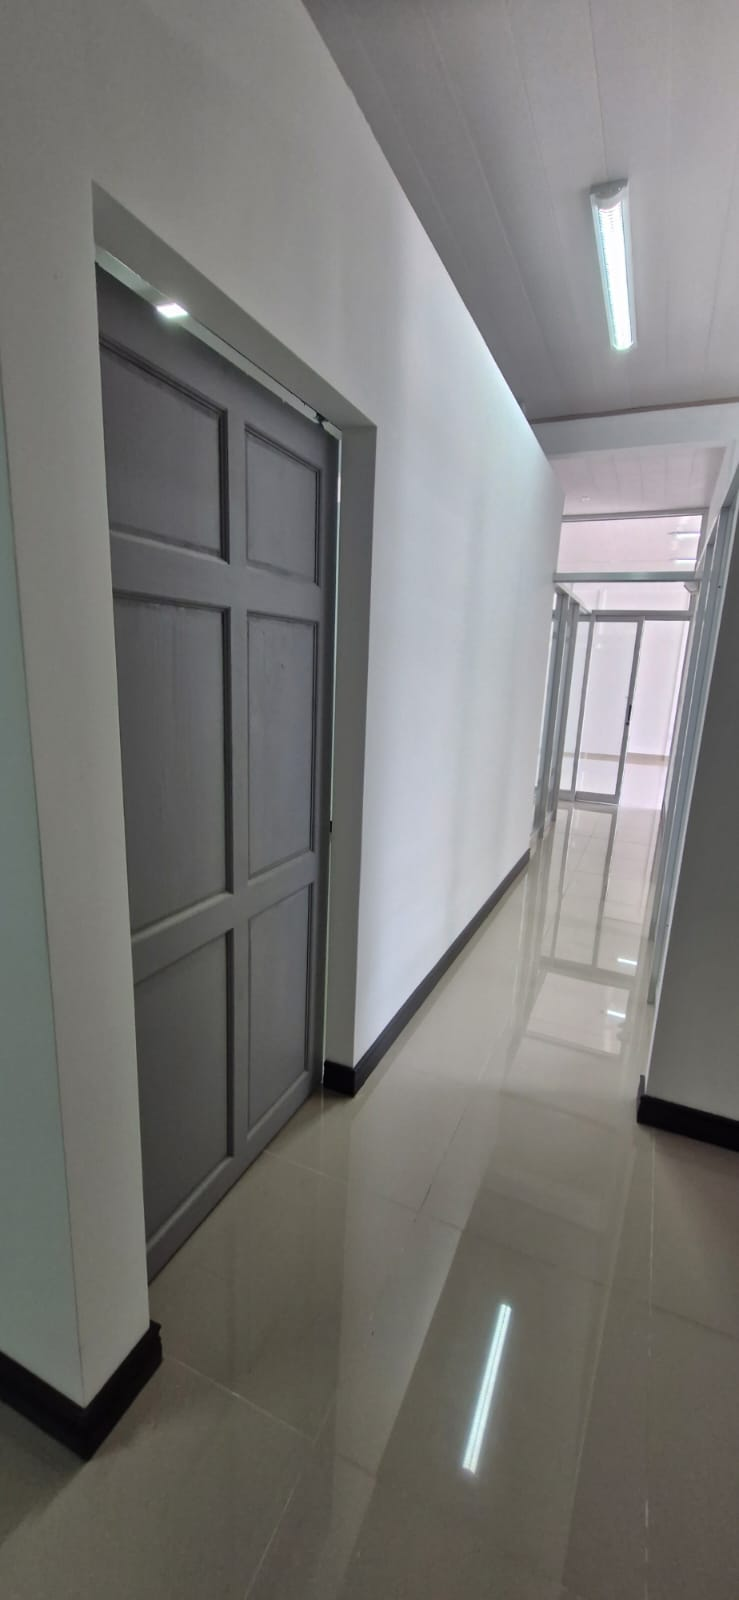
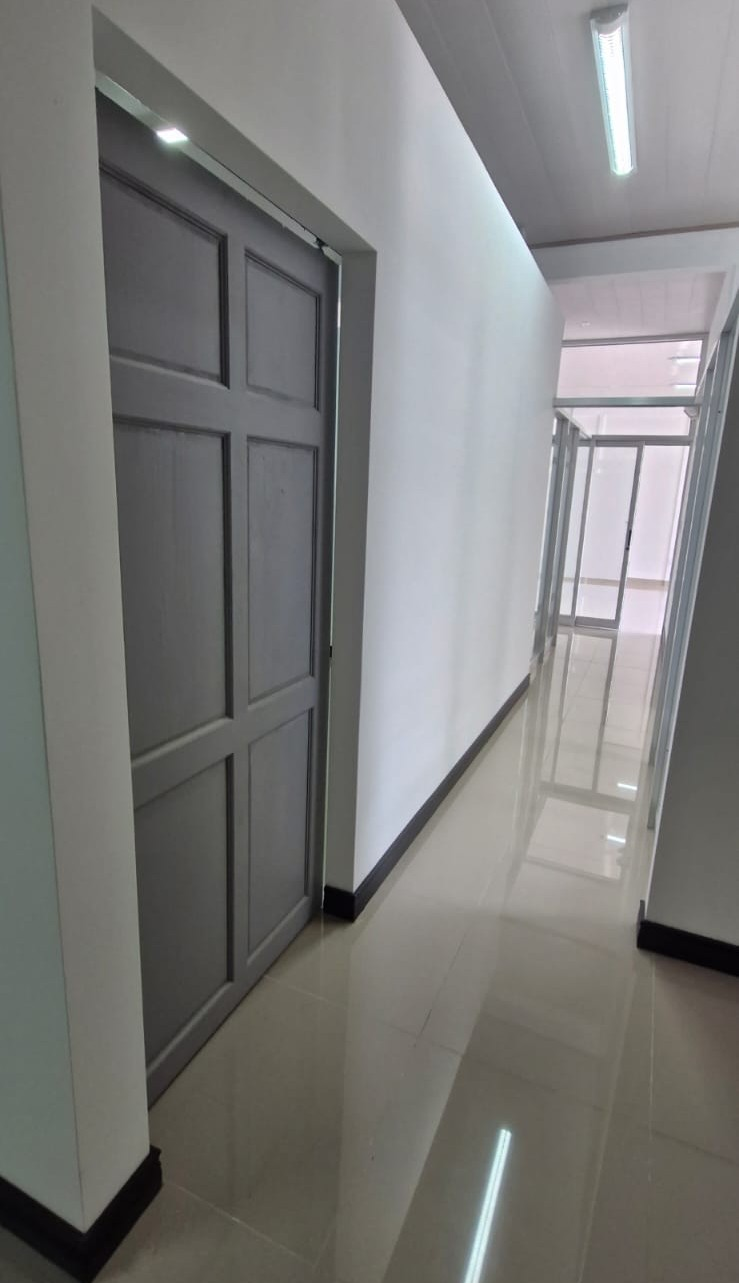
Edicion de los proyectos, se agregaron nuevos proyectos y aspectos visuales para comparar el antes y despues

diff --git a/src/components/Projects.tsx b/src/components/Projects.tsx
@@ -1,6 +1,6 @@
 import { useEffect, useMemo, useRef, useState } from 'react';
 
-type GalleryImg = { src: string; label: 'Antes' | 'Después' };
+type GalleryImg = { src: string; label: 'Antes' | 'Después' | 'Proceso' };
 
 type Project = {
   img: string;
@@ -27,21 +27,9 @@ const projects: Project[] = [
       { src: '/assets/proyectos/tribunales/despues-03-pasillo-largo.jpeg', label: 'Después' },
       { src: '/assets/proyectos/tribunales/antes-02-bano.jpeg', label: 'Antes' },
       { src: '/assets/proyectos/tribunales/despues-04-puerta-madera.jpeg', label: 'Después' },
+      { src: '/assets/proyectos/tribunales/antes-03-cuarto.png', label: 'Antes' },
       { src: '/assets/proyectos/tribunales/despues-05-vidrio-esmerilado.jpeg', label: 'Después' },
       { src: '/assets/proyectos/tribunales/despues-06-oficina-luz.jpeg', label: 'Después' },
-    ],
-  },
-  {
-    img: '/assets/proyectos/tribunales/despues-02-pasillo-oficinas.jpeg',
-    title: 'Oficinas Privadas con Mamparas de Vidrio',
-    tag: 'Remodelación',
-    loc: 'San José · 405 m² · 2025',
-    desc: 'Construcción de oficinas privadas con mamparas de vidrio templado y estructura de aluminio sobre un edificio existente, como parte de la modernización integral de las instalaciones del Poder Judicial.',
-    short: '02 · REMODELACIÓN',
-    gallery: [
-      { src: '/assets/proyectos/tribunales/despues-02-pasillo-oficinas.jpeg', label: 'Después' },
-      { src: '/assets/proyectos/tribunales/antes-01-pasillo.jpeg', label: 'Antes' },
-      { src: '/assets/proyectos/tribunales/despues-03-pasillo-largo.jpeg', label: 'Después' },
     ],
   },
   {
@@ -50,47 +38,75 @@ const projects: Project[] = [
     tag: 'Remodelación',
     loc: 'Jacó · 120 m² · 2025',
     desc: 'Acondicionamiento completo de un local comercial de 120 m² para convertirlo en oficinas de atención al público de Correos de Costa Rica S.A.: fachada de vidrio, mostrador de atención, cielorraso, piso y sistema eléctrico nuevo.',
-    short: '03 · REMODELACIÓN',
+    short: '02 · REMODELACIÓN',
     gallery: [
+      { src: '/assets/proyectos/jaco/antes-02-materiales.jpeg', label: 'Antes' },
+      { src: '/assets/proyectos/jaco/proceso-correos-01.jpeg', label: 'Proceso' },
       { src: '/assets/proyectos/jaco/despues-01-fachada-vidrio.jpeg', label: 'Después' },
       { src: '/assets/proyectos/jaco/antes-01-obra-gris.jpeg', label: 'Antes' },
-      { src: '/assets/proyectos/jaco/antes-02-materiales.jpeg', label: 'Antes' },
+      { src: '/assets/proyectos/jaco/proceso-correos-02.jpeg', label: 'Proceso' },
       { src: '/assets/proyectos/jaco/despues-02-pasillo-puertas.jpeg', label: 'Después' },
     ],
   },
   {
-    img: '/assets/proyectos/tribunales/despues-06-oficina-luz.jpeg',
-    title: 'Oficina Administrativa con Iluminación Natural',
+    img: '/assets/proyectos/san-carlos/despues-fachada-03.png',
+    title: 'Acondicionamiento de local de oficinas - Caja Costarricense del Seguro Social',
     tag: 'Remodelación',
-    loc: 'San José · 405 m² · 2025',
-    desc: 'Reacondicionamiento de oficina administrativa aprovechando la iluminación natural existente, con nuevo mobiliario, acabados y acceso directo a sala de reuniones con mampara de vidrio.',
-    short: '04 · REMODELACIÓN',
+    loc: 'San Carlos · 100 m² · 2025',
+    desc: 'Remodelación integral y adecuación espacial de un local de oficinas de 100 m² para la Caja Costarricense del Seguro Social en San Carlos. La intervención contempló la modernización de los acabados interiores mediante la renovación completa de pisos, la sustitución de sistemas de cielorrasos y techos, y la actualización de la fachada principal. El diseño se enfocó en optimizar la distribución para el flujo administrativo, mejorar el confort ambiental y cumplir estrictamente con los estándares institucionales de accesibilidad y durabilidad.',
+    short: '03 · REMODELACIÓN',
     gallery: [
-      { src: '/assets/proyectos/tribunales/despues-06-oficina-luz.jpeg', label: 'Después' },
-      { src: '/assets/proyectos/tribunales/antes-02-bano.jpeg', label: 'Antes' },
+      { src: '/assets/proyectos/san-carlos/antes-piso-01.png', label: 'Antes' },
+      { src: '/assets/proyectos/san-carlos/despues-piso-02.png', label: 'Después' },
+      { src: '/assets/proyectos/san-carlos/antes-techo-02.png', label: 'Antes' },
+      { src: '/assets/proyectos/san-carlos/despues-entrada-01.png', label: 'Después' },
+      { src: '/assets/proyectos/san-carlos/antes-techo-03.png', label: 'Antes' },  
+      { src: '/assets/proyectos/san-carlos/despues-fachada-03.png', label: 'Después' },
     ],
   },
   {
-    img: '/assets/proyectos/jaco/despues-02-pasillo-puertas.jpeg',
-    title: 'Pasillos y Puertas de Acceso — Local Comercial',
-    tag: 'Remodelación',
-    loc: 'Jacó · 120 m² · 2025',
-    desc: 'Distribución interna de pasillos y puertas de acceso a oficinas auxiliares, con acabados en piso porcelanato y pintura, dentro del proyecto de acondicionamiento del local de atención al público.',
-    short: '05 · REMODELACIÓN',
+    img: '/assets/proyectos/verbena/lobby-06.png',
+    title: 'Proyecto la Verbena Construcción de CEDI',
+    tag: 'Construcción',
+    loc: 'Verbena · 3360 m² · 2022',
+    desc: 'Proyecto llave en mano para la construcción de un Centro de Distribución (CEDI) de 3,360 m² en La Verbena. La obra civil abarcó desde la preparación del terreno hasta la ejecución de estructuras industriales de gran luz, techumbres de alta resistencia y la configuración técnica del área de almacenamiento masivo con sistemas de racks optimizados. Además de la zona operativa, se desarrollaron espacios complementarios que incluyen áreas de trabajo administrativo, núcleos de servicios sanitarios de alta demanda y un lobby de acceso contemporáneo.',
+    short: '04 · CONSTRUCCIÓN',
     gallery: [
-      { src: '/assets/proyectos/jaco/despues-02-pasillo-puertas.jpeg', label: 'Después' },
-      { src: '/assets/proyectos/jaco/antes-01-obra-gris.jpeg', label: 'Antes' },
+      { src: '/assets/proyectos/verbena/racks-01.png', label: 'Después' },
+      { src: '/assets/proyectos/verbena/racks-02.png', label: 'Después' },
+      { src: '/assets/proyectos/verbena/techo-03.png', label: 'Después' },
+      { src: '/assets/proyectos/verbena/bannos-04.png', label: 'Después' },
+      { src: '/assets/proyectos/verbena/area-trabajo-05.png', label: 'Después' },
     ],
   },
   {
-    img: '/assets/hero-tower.png',
+    img: '/assets/proyectos/telecomunicaciones/torre-01.png',
     title: 'Torre de Celosía 60m Cordillera',
     tag: 'Torre autosoportada',
     loc: 'Guanacaste · 2025',
     desc: 'Diseño, fabricación y montaje de una torre de celosía autosoportada de 60 metros para ampliar la cobertura 4G en el norte del país. Proyecto entregado a un operador de telecomunicaciones bajo nuestra línea especializada de torres.',
-    short: '06 · TORRES',
-    gallery: [{ src: '/assets/hero-tower.png', label: 'Después' }],
+    short: '05 · TORRES',
+    gallery: [
+        { src: '/assets/proyectos/telecomunicaciones/torre-03.png', label: 'Después' },
+        { src: '/assets/proyectos/telecomunicaciones/torre-02.png', label: 'Después' },
+        { src: '/assets/proyectos/telecomunicaciones/torre-04.png', label: 'Después' },
+        { src: '/assets/proyectos/telecomunicaciones/torre-01.png', label: 'Después' },
+        
+    ],
   },
+   {
+    img: '/assets/proyectos/casa/fachada-casa.png',
+    title: 'Residencia Unifamiliar',
+    tag: 'Diseño Residencial Contemporáneo',
+    loc: 'San José · 200 m² · 2025',
+    desc: 'Proyecto residencial de una planta fundamentado en el racionalismo formal y la optimización climática. El diseño destaca por una volumetría limpia en estuco blanco, interceptada por un sistema de cubiertas multi-ángulo con lucernarios triangulares que favorecen la iluminación cenital. La fachada oeste integra una celosía metálica horizontal exenta para el control de la radiación solar directa y la ventilación cruzada pasiva. El emplazamiento se complementa con un tratamiento de paisaje xerófilo de bajo mantenimiento y pavimentos articulados de alta resistencia en accesos vehicular y peatonal.',
+    short: '06 · RESIDENCIAL',
+    gallery: [
+        { src: '/assets/proyectos/casa/cocina-casa.png', label: 'Después' },
+        { src: '/assets/proyectos/casa/banno-casa.png', label: 'Después' },
+        { src: '/assets/proyectos/casa/entrada-casa.png', label: 'Después' },
+    ],
+  }
 ];
 
 export default function Projects() {

diff --git a/src/styles.css b/src/styles.css
@@ -1796,11 +1796,12 @@ button {
 @media (max-width: 720px) {
   .proj-lb .lb-frame {
     grid-template-columns: 1fr;
+    grid-template-rows: 240px 1fr;
+    height: auto;
     max-height: calc(100vh - 32px);
   }
-  .proj-lb .lb-media img {
-    min-height: 200px;
-    max-height: 280px;
+  .proj-lb .lb-media {
+    height: 240px;
   }
 }
 

diff --git a/index.html b/index.html
@@ -2,7 +2,7 @@
 <html lang="en">
   <head>
     <meta charset="UTF-8" />
-    <link rel="icon" type="image/svg+xml" href="/favicon.svg" />
+    <link rel="icon" type="image/svg+xml" href="/novosti-logo-transparent.png" />
     <meta name="viewport" content="width=device-width, initial-scale=1.0" />
     <title>novosti-vite</title>
   </head>
